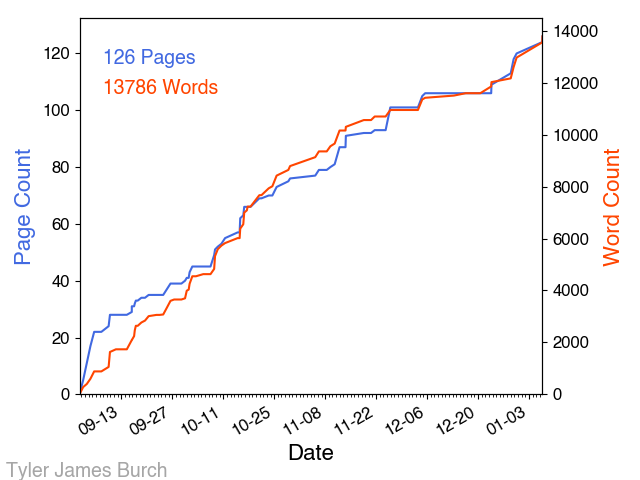
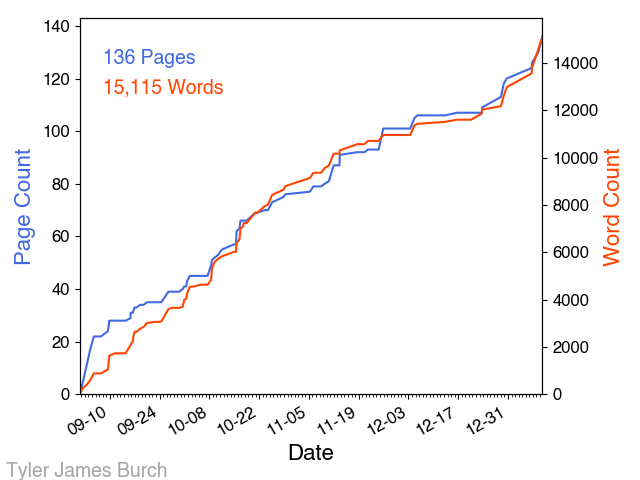
update progress plot

diff --git a/_other/dissertationProgress.md b/_other/dissertationProgress.md
@@ -5,6 +5,6 @@ title: "Dissertation Progress"
 #tags: [misc]
 ---
 
-Last Update: Mon Jan  6 17:27:48 CST 2020
+Last Update: Fri Jan 10 15:46:16 CST 2020
 
 <img src="/blogimages/dissertationProgress.png" alt="" class="center" border="5" style="width:60%;"/>
